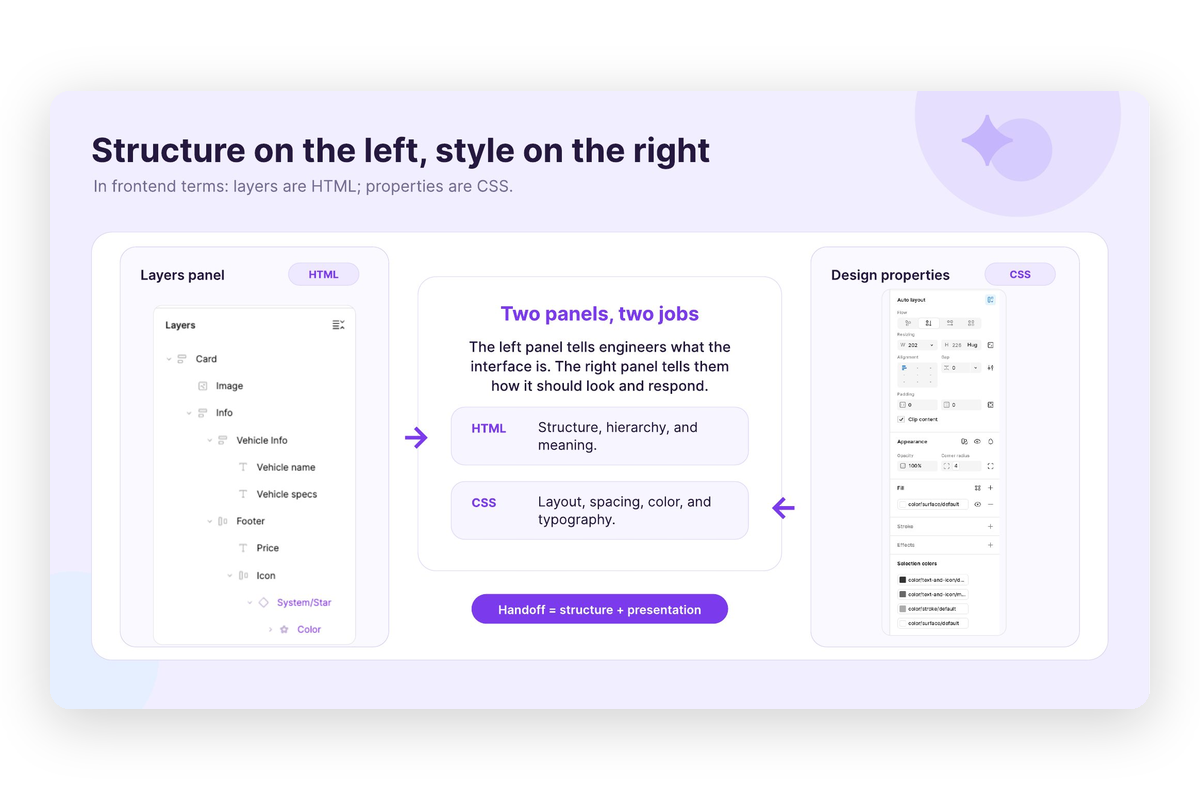
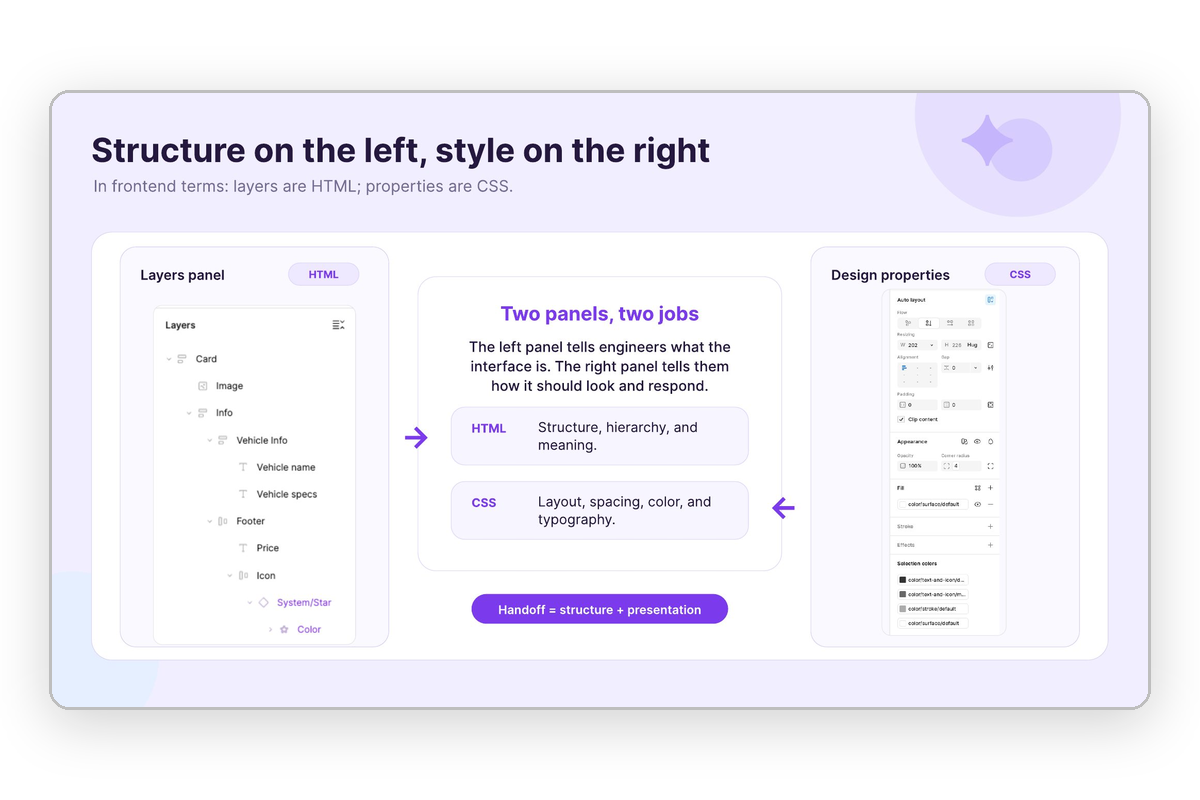
Workshops: UX Camp venue, framed slides, gray image backgrounds
Claude-Session: https://claude.ai/code/session_013xuKobWYPeFyxzFYVNqAt9

Changed region(s): [[0.0617, 0.875, 0.9558, 0.9062], [0.0617, 0.0938, 0.9558, 0.125]]

diff --git a/src/content/projects.ts b/src/content/projects.ts
@@ -369,7 +369,7 @@ export const workshops: Project[] = [
     subtitle: "Designing at the Speed of Ideas",
     description:
       "Built a fully interactive prototype using only prompts and presented the methods at UX Camp 2025 and AutoScout24.",
-    company: "UX Camp Berlin · AutoScout24",
+    company: "UX Camp Berlin",
     role: "Speaker & Workshop Facilitator",
     platform: "Figma Make, AI tools, prompting",
     tags: ["AI Tools", "Prototyping", "Workshop", "Thought Leadership"],
@@ -378,7 +378,7 @@ export const workshops: Project[] = [
       alt: "AI-Powered Prototyping - Workshop",
       width: 1200,
       height: 800,
-      background: "linear-gradient(135deg, #eefff0 0%, #c8f53a 100%)",
+      background: "#f3f3f3",
     },
     heroImage: {
       src: "/images/projects/project-5/hero.png",
@@ -427,7 +427,7 @@ export const workshops: Project[] = [
       alt: "Broadcasting Your Design - UX Camp workshop",
       width: 1200,
       height: 800,
-      background: "linear-gradient(135deg, #eefff0 0%, #c8f53a 100%)",
+      background: "#f3f3f3",
     },
     heroImage: {
       src: "/images/projects/project-8/hero.png",
@@ -478,17 +478,17 @@ export const workshops: Project[] = [
     title: "Code Basics for Designers",
     subtitle: "How Figma Decisions Become Frontend Rules",
     description:
-      "An internal session teaching designers how Figma maps to HTML, CSS, tokens and component props, for cleaner handoff and better AI-generated code.",
-    company: "AutoScout24 UX All Hands",
+      "A UX Camp session teaching designers how Figma maps to HTML, CSS, tokens and component props, for cleaner handoff and better AI-generated code.",
+    company: "UX Camp Berlin",
     role: "Speaker",
     platform: "HTML, CSS, design tokens, handoff",
     tags: ["Workshop", "Design-to-Code", "Handoff", "Design Systems"],
     thumbnail: {
       src: "/images/projects/project-9/thumb.png",
-      alt: "Code Basics for Designers - internal session",
+      alt: "Code Basics for Designers - UX Camp session",
       width: 1200,
       height: 800,
-      background: "linear-gradient(135deg, #eefff0 0%, #c8f53a 100%)",
+      background: "#f3f3f3",
     },
     heroImage: {
       src: "/images/projects/project-9/hero.png",
@@ -497,7 +497,7 @@ export const workshops: Project[] = [
       height: 840,
     },
     overview:
-      "Designers and engineers describe the same interface in different languages. Designers talk about frames, Auto Layout and variants; engineers talk about containers, Flexbox and props. With AI tools now generating code straight from design files, that gap matters more than ever. I put together this session for the UX team to show how the decisions we already make in Figma become frontend rules.",
+      "Designers and engineers describe the same interface in different languages. Designers talk about frames, Auto Layout and variants; engineers talk about containers, Flexbox and props. With AI tools now generating code straight from design files, that gap matters more than ever. I put together this UX Camp session to show designers how the decisions they already make in Figma become frontend rules.",
     sections: [
       {
         heading: "From Pixels to Structure",
